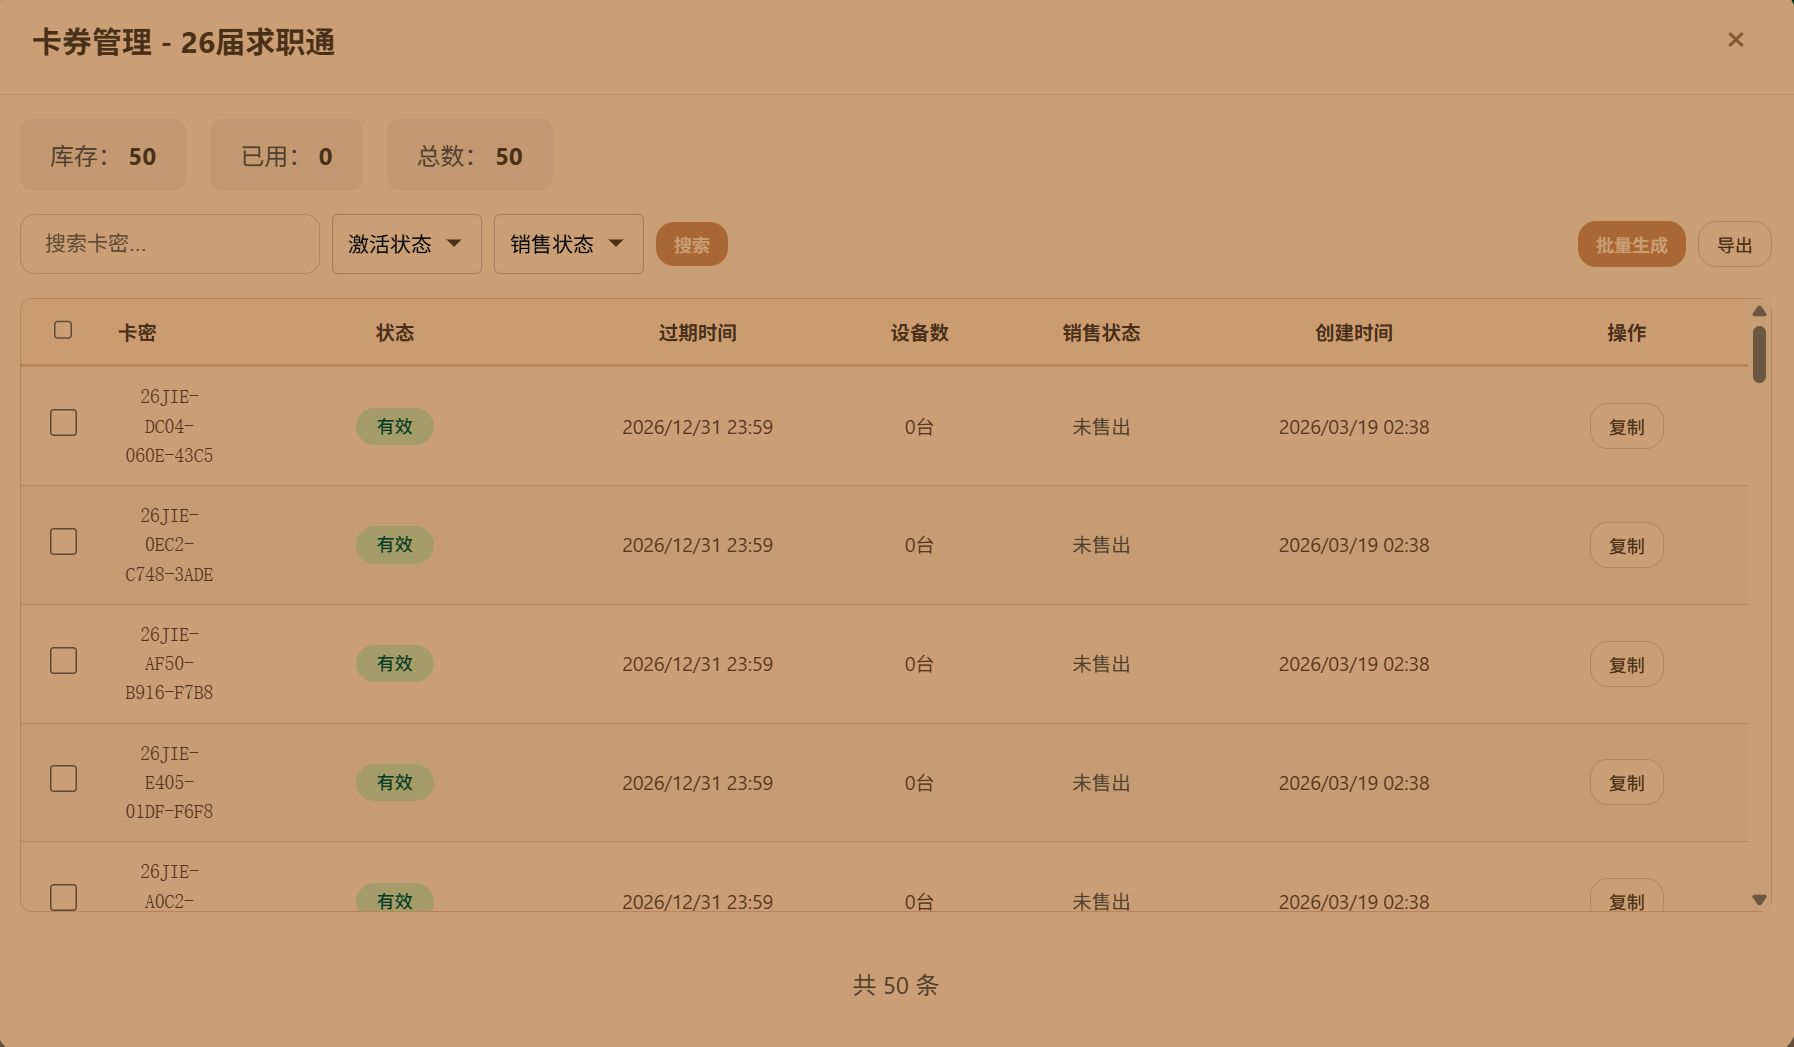
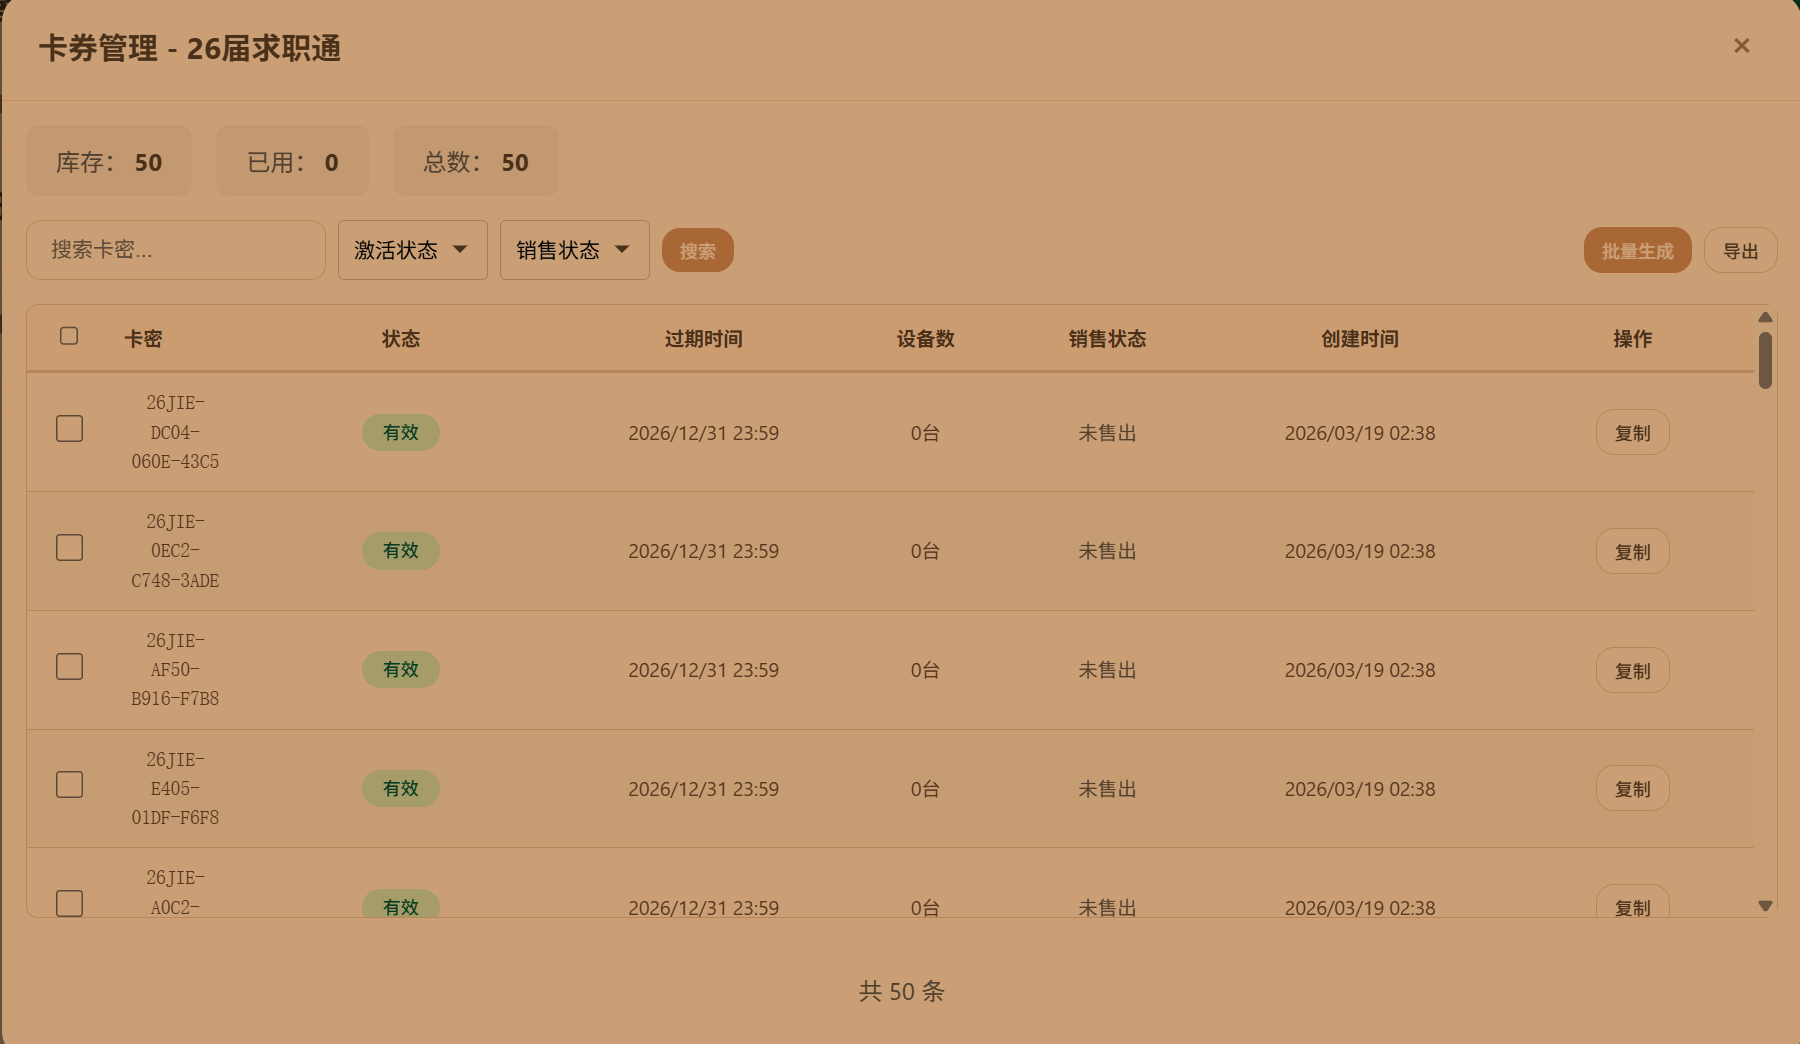
feat: 完善卡种下卡券管理弹窗表格字段和功能
- 更新表格结构，与主界面卡密管理页面保持一致
- 新增字段：序号、备注、链接名称、销售渠道、订单号
- 更新渲染函数，完整显示所有字段信息
- 添加编辑、删除功能，复用主界面编辑弹窗
- 编辑保存后自动刷新卡种卡券列表
- 设备管理功能复用主界面设备管理弹窗

diff --git a/src/static/admin.html b/src/static/admin.html
@@ -2897,18 +2897,23 @@
                         <thead style="position: sticky; top: 0; background: #f5f5f5; z-index: 10;">
                             <tr style="background: #f5f5f5;">
                                 <th style="width: 40px; padding: 12px 8px; border-bottom: 2px solid #E8D5C4; text-align: center;"><input type="checkbox" id="cardTypeCardsSelectAll" onchange="toggleCardTypeCardsSelectAll()"></th>
+                                <th style="padding: 12px 8px; border-bottom: 2px solid #E8D5C4; text-align: center;">序号</th>
                                 <th style="padding: 12px 8px; border-bottom: 2px solid #E8D5C4; text-align: left;">卡密</th>
                                 <th style="width: 80px; padding: 12px 8px; border-bottom: 2px solid #E8D5C4; text-align: center;">状态</th>
-                                <th style="width: 140px; padding: 12px 8px; border-bottom: 2px solid #E8D5C4; text-align: center;">过期时间</th>
-                                <th style="width: 70px; padding: 12px 8px; border-bottom: 2px solid #E8D5C4; text-align: center;">设备数</th>
+                                <th style="width: 80px; padding: 12px 8px; border-bottom: 2px solid #E8D5C4; text-align: center;">设备数</th>
+                                <th style="width: 120px; padding: 12px 8px; border-bottom: 2px solid #E8D5C4; text-align: center;">过期时间</th>
+                                <th style="width: 100px; padding: 12px 8px; border-bottom: 2px solid #E8D5C4; text-align: center;">备注</th>
+                                <th style="width: 100px; padding: 12px 8px; border-bottom: 2px solid #E8D5C4; text-align: center;">链接名称</th>
+                                <th style="width: 140px; padding: 12px 8px; border-bottom: 2px solid #E8D5C4; text-align: center;">创建时间</th>
                                 <th style="width: 80px; padding: 12px 8px; border-bottom: 2px solid #E8D5C4; text-align: center;">销售状态</th>
-                                <th style="width: 150px; padding: 12px 8px; border-bottom: 2px solid #E8D5C4; text-align: center;">创建时间</th>
-                                <th style="width: 80px; padding: 12px 8px; border-bottom: 2px solid #E8D5C4; text-align: center;">操作</th>
+                                <th style="width: 80px; padding: 12px 8px; border-bottom: 2px solid #E8D5C4; text-align: center;">销售渠道</th>
+                                <th style="width: 100px; padding: 12px 8px; border-bottom: 2px solid #E8D5C4; text-align: center;">订单号</th>
+                                <th style="width: 150px; padding: 12px 8px; border-bottom: 2px solid #E8D5C4; text-align: center;">操作</th>
                             </tr>
                         </thead>
                         <tbody id="cardTypeCardsTableBody">
                             <tr>
-                                <td colspan="8" style="text-align: center; padding: 40px; color: #A89070;">
+                                <td colspan="13" style="text-align: center; padding: 40px; color: #A89070;">
                                     暂无卡券数据
                                 </td>
                             </tr>
@@ -5254,6 +5259,11 @@
                     loadFilterOptions(null);
                     // 刷新销售渠道列表（新渠道可能需要加入下拉选项）
                     loadSalesChannelDatalist();
+                    // 如果卡种卡券管理弹窗打开，也刷新卡种卡券列表
+                    const cardTypeCardsModal = document.getElementById('cardTypeCardsModalOverlay');
+                    if (cardTypeCardsModal && cardTypeCardsModal.classList.contains('active')) {
+                        loadCardTypeCards();
+                    }
                 } else {
                     showToast(getErrorMsg(result), 'error');
                 }
@@ -7195,7 +7205,7 @@
             if (!data || data.length === 0) {
                 tbody.innerHTML = `
                     <tr>
-                        <td colspan="8" style="text-align: center; padding: 40px; color: #A89070;">
+                        <td colspan="13" style="text-align: center; padding: 40px; color: #A89070;">
                             暂无卡券数据
                         </td>
                     </tr>
@@ -7203,12 +7213,17 @@
                 return;
             }
             
-            tbody.innerHTML = data.map(card => {
+            tbody.innerHTML = data.map((card, index) => {
                 const devices = JSON.parse(card.devices || '[]');
+                const deviceCount = devices.length;
+                const maxDevices = card.max_devices || 5;
+                
+                // 状态
                 const statusBadge = card.status === 1 ? 
                     '<span class="status-badge status-active">有效</span>' : 
                     '<span class="status-badge status-inactive">已停用</span>';
                 
+                // 过期时间
                 let expireDisplay = '-';
                 if (card.expire_at) {
                     expireDisplay = formatTime(card.expire_at);
@@ -7224,26 +7239,65 @@
                     expireDisplay = '永久';
                 }
                 
+                // 链接名称
+                const linkName = card.link_name || '';
+                const feishuUrl = card.feishu_url || '';
+                const hasFeishuUrl = feishuUrl && feishuUrl.trim() !== '';
+                let linkNameDisplay;
+                if (linkName) {
+                    if (hasFeishuUrl) {
+                        linkNameDisplay = `<span style="cursor:pointer;color:#2563eb;text-decoration:underline;" onclick="window.open('${feishuUrl}', '_blank')" title="点击打开飞书链接">🟢 ${linkName}</span>`;
+                    } else {
+                        linkNameDisplay = `<span style="color:#9ca3af;" title="未配置飞书链接">⚪ ${linkName}</span>`;
+                    }
+                } else {
+                    if (hasFeishuUrl) {
+                        linkNameDisplay = `<span style="cursor:pointer;color:#2563eb;text-decoration:underline;" onclick="window.open('${feishuUrl}', '_blank')">🟢 [查看链接]</span>`;
+                    } else {
+                        linkNameDisplay = '<span style="color:#9ca3af;">-</span>';
+                    }
+                }
+                
+                // 销售状态
                 const saleStatusMap = {
-                    'unsold': '<span style="color: #666;">未售出</span>',
-                    'sold': '<span style="color: #059669;">已售出</span>',
-                    'refunded': '<span style="color: #DC2626;">已退款</span>',
-                    'disputed': '<span style="color: #D97706;">有纠纷</span>'
+                    'unsold': '<span class="status-badge status-inactive">未售出</span>',
+                    'sold': '<span class="status-badge status-active">已售出</span>',
+                    'refunded': '<span class="status-badge status-danger">已退款</span>',
+                    'disputed': '<span class="status-badge status-warning">有纠纷</span>'
                 };
+                
+                // 订单号
+                const orderId = card.order_id || '';
+                const orderIdDisplay = orderId ? `<span title="${orderId}">${orderId.length > 8 ? orderId.substring(0, 8) + '...' : orderId}</span>` : '-';
+                
+                // 销售渠道
+                const salesChannel = card.sales_channel || '-';
+                
+                // 备注
+                const userNote = card.user_note || '-';
                 
                 return `
                     <tr>
                         <td style="text-align: center;">
                             <input type="checkbox" class="checkbox" data-id="${card.id}" ${cardTypeCardsSelectedIds.has(card.id) ? 'checked' : ''} onchange="toggleCardTypeCardSelect(${card.id})">
                         </td>
-                        <td style="font-family: monospace;">${escapeHtml(card.key_value)}</td>
+                        <td style="text-align: center;">${(cardTypeCardsPage - 1) * cardTypeCardsPageSize + index + 1}</td>
+                        <td><strong>${escapeHtml(card.key_value)}</strong></td>
                         <td style="text-align: center;">${statusBadge}</td>
+                        <td style="text-align: center;">${deviceCount} / ${maxDevices} 台</td>
                         <td style="text-align: center;">${expireDisplay}</td>
-                        <td style="text-align: center;">${devices.length}台</td>
+                        <td title="${escapeHtml(card.user_note || '')}">${userNote}</td>
+                        <td style="text-align: center;">${linkNameDisplay}</td>
+                        <td style="text-align: center;" class="text-small">${formatTime(card.bstudio_create_time)}</td>
                         <td style="text-align: center;">${saleStatusMap[card.sale_status] || card.sale_status}</td>
-                        <td style="text-align: center;">${formatTime(card.bstudio_create_time)}</td>
-                        <td style="text-align: center;">
-                            <button class="btn btn-secondary btn-sm" onclick="copyToClipboard('${card.key_value}')">复制</button>
+                        <td title="${escapeHtml(salesChannel)}">${salesChannel}</td>
+                        <td class="col-narrow" title="${escapeHtml(orderId)}">${orderIdDisplay}</td>
+                        <td>
+                            <div class="actions-cell">
+                                <button class="btn btn-secondary btn-sm" onclick="editCardInType(${card.id})">编辑</button>
+                                <button class="btn btn-secondary btn-sm" onclick="showDeviceManager('${card.key_value}', ${deviceCount})" ${deviceCount === 0 ? 'disabled title="无绑定设备"' : ''}>设备</button>
+                                <button class="btn btn-danger btn-sm" onclick="deleteCardInType(${card.id})">删除</button>
+                            </div>
                         </td>
                     </tr>
                 `;
@@ -7278,6 +7332,37 @@
         function goToCardTypeCardsPage(page) {
             cardTypeCardsPage = page;
             loadCardTypeCards();
+        }
+        
+        // 编辑卡券（调用主界面的编辑功能）
+        async function editCardInType(cardId) {
+            // 直接调用主界面的编辑函数
+            await editCard(cardId);
+        }
+        
+        // 删除卡券
+        async function deleteCardInType(cardId) {
+            if (!confirm('确定要删除此卡券吗？此操作不可恢复！')) {
+                return;
+            }
+            
+            try {
+                const response = await fetch(`/api/cards/${cardId}`, {
+                    method: 'DELETE'
+                });
+                
+                if (!response.ok) {
+                    const result = await response.json();
+                    alert(result.detail || '删除失败');
+                    return;
+                }
+                
+                alert('删除成功');
+                loadCardTypeCards();
+            } catch (error) {
+                console.error('删除卡券失败:', error);
+                alert('删除失败');
+            }
         }
         
         // 全选/取消全选
